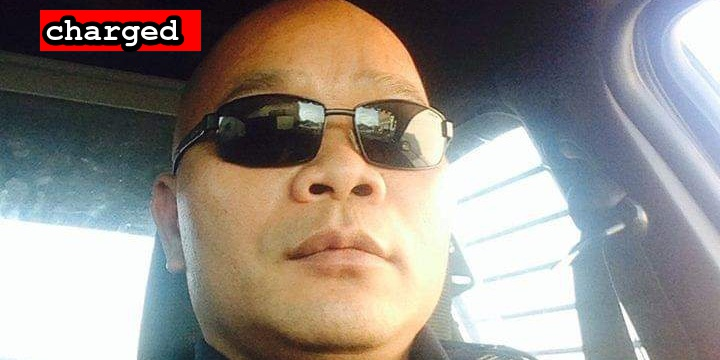
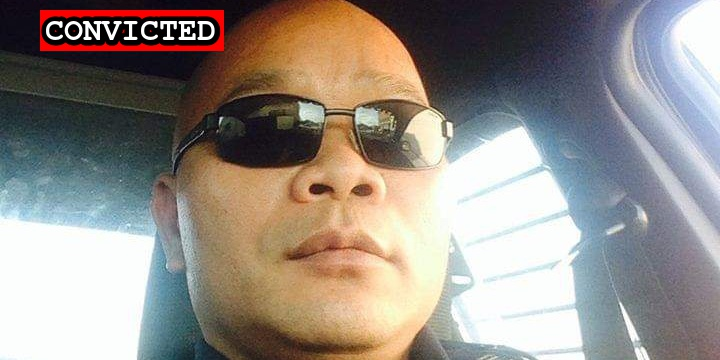
Guilty plea

Changed region(s): [[0.0306, 0.0, 0.3361, 0.1528]]

diff --git a/docs/_suspects/tam-pham.md b/docs/_suspects/tam-pham.md
@@ -3,13 +3,13 @@ name: Tam Pham
 lastName: Pham
 aka:
 residence: Texas
-status: Charged
+status: Convicted
 date: 2021-01-19
 charged: 2021-01-19
 indicted:
-convicted: 
-sentenced: 
-dismissed: 
+convicted: 2021-09-20
+sentenced:
+dismissed:
 deceased:
 age: 48
 occupation: Police Officer
@@ -18,18 +18,24 @@ jurisdiction: Federal
 image: /images/preview/069.jpg
 suspect: 069.jpg
 booking:
-courtroom: 
+courtroom:
 courthouse: tam-pham.jpg
 raid:
 perpwalk:
-quote: "I shouldn’t have done it. I was there to take pictures."
+quote: 'I shouldn’t have done it. I was there to take pictures.'
 title: Tam Pham charged on January 19, 2021
 description: Click for latest case details. Suspects considered innocent until proven guilty.
 author: seditiontrack
 layout: suspect
 published: true
 caseNumber: 1:21-cr-109
+charges:
+  - code: 18 USC § 5104(e)(2)(G)
+    title: Parading, Demonstrating or Picketing in a Capitol Building
+    url: https://www.law.cornell.edu/uscode/text/40/5104
+    felony: false
 ---
+
 - [News Report](https://abc13.com/houston-protest-inauguration-protests-hpd-officer-tamp-pham-at-us-capitol-safety-plan/9655587/)
 - [Houston Police Statement (Twitter)](https://twitter.com/ArtAcevedo/status/1349759930832662528?s=20)
 - [Self Incrimination (Interview)](https://www.houstonchronicle.com/news/houston-texas/crime/article/HPD-cop-faces-federal-charges-capitol-riot-15867917.php)
